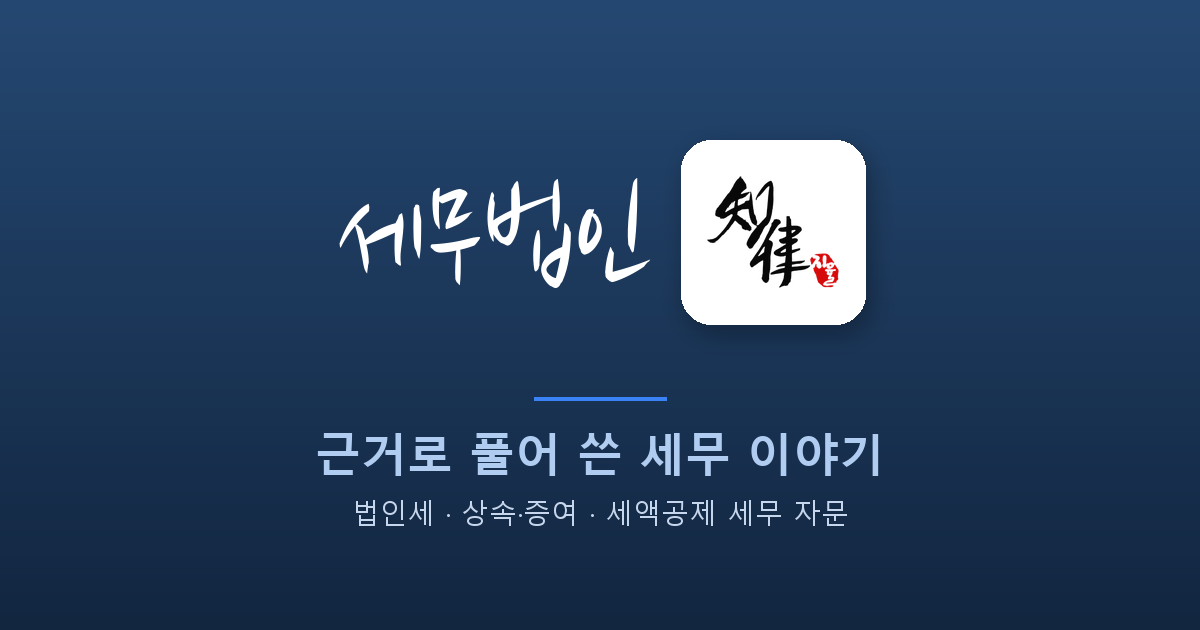
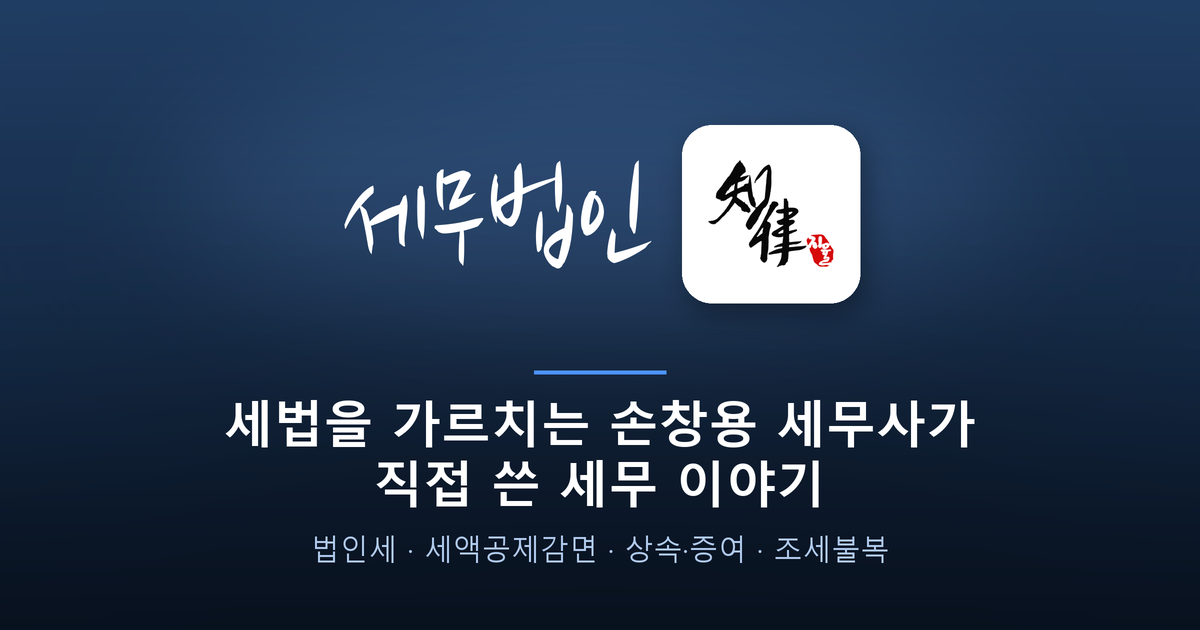
카톡/SNS 공유 OG 이미지 개선: 2배 슈퍼샘플링으로 선명도↑, 상단 글로우·하단 비네트로 전문적 깊이감, 태그라인을 홈페이지 H1(세법을 가르치는 손창용 세무사가 직접 쓴 세무 이야기)로 교체, 업무영역(법인세·세액공제감면·상속증여·조세불복). og.png v3→v4 전 페이지+JSON-LD, blog.js v17

diff --git a/index.html b/index.html
@@ -15,14 +15,14 @@
 <meta property="og:title" content="세무법인 지율 · 세무 칼럼 — 세법을 가르치는 손창용 세무사가 직접 쓴 세무 이야기" />
 <meta property="og:description" content="세무학 박사 손창용 세무사가 법인세·상속증여·조세특례 등 실제 상담 주제를 법령과 판례에 근거해 풀어 쓴 세무 칼럼." />
 <meta property="og:url" content="https://taxin4u.com/" />
-<meta property="og:image" content="https://taxin4u.com/assets/images/og.png?v=3" />
+<meta property="og:image" content="https://taxin4u.com/assets/images/og.png?v=4" />
 <meta property="og:image:width" content="1200" />
 <meta property="og:image:height" content="630" />
 <meta property="og:locale" content="ko_KR" />
 <meta name="twitter:card" content="summary_large_image" />
 <meta name="twitter:title" content="세무법인 지율 · 세무 칼럼" />
 <meta name="twitter:description" content="법인세·상속증여·조세특례 등을 법령과 판례에 근거해 풀어 쓴 세무 칼럼." />
-<meta name="twitter:image" content="https://taxin4u.com/assets/images/og.png?v=3" />
+<meta name="twitter:image" content="https://taxin4u.com/assets/images/og.png?v=4" />
 <link rel="icon" type="image/png" href="assets/images/favicon.png?v=2" />
 <link rel="apple-touch-icon" href="assets/images/apple-touch-icon.png?v=2" />
 <meta name="theme-color" content="#1E3A5F" />
@@ -53,7 +53,7 @@
   "faxNumber": "02-552-6438",
   "email": "asd8980@hanmail.net",
   "taxID": "120-85-46063",
-  "image": "https://taxin4u.com/assets/images/og.png?v=3",
+  "image": "https://taxin4u.com/assets/images/og.png?v=4",
   "logo": "https://taxin4u.com/assets/images/logo-brand.png?v=2",
   "priceRange": "₩₩",
   "address": {
@@ -194,7 +194,7 @@
 
 <div data-site-footer hidden></div>
 
-<script src="assets/blog.js?v=16"></script>
+<script src="assets/blog.js?v=17"></script>
 <script src="assets/site-footer.js?v=9"></script>
 </body>
 </html>

diff --git a/intro.html b/intro.html
@@ -18,8 +18,8 @@
 <!-- 공유 미리보기 이미지: 카카오톡·SNS 스크래퍼는 반드시 '절대 URL'로만 읽습니다.
      [사이트 주소 입력] 을 실제 도메인(https://... )으로 바꾸면 아래 두 줄이 함께 완성됩니다.
      예) https://jiyul.co.kr/assets/images/og.png -->
-<meta property="og:image" content="https://taxin4u.com/assets/images/og.png?v=3" />
-<meta property="og:image:secure_url" content="https://taxin4u.com/assets/images/og.png?v=3" />
+<meta property="og:image" content="https://taxin4u.com/assets/images/og.png?v=4" />
+<meta property="og:image:secure_url" content="https://taxin4u.com/assets/images/og.png?v=4" />
 <meta property="og:image:type" content="image/png" />
 <meta property="og:image:width" content="1200" />
 <meta property="og:image:height" content="630" />
@@ -28,7 +28,7 @@
 <meta name="twitter:card" content="summary_large_image" />
 <meta name="twitter:title" content="세무법인 지율 | 법인세·상속증여·세액공제 세무 자문 - 손창용 세무사" />
 <meta name="twitter:description" content="세무학 박사 손창용 세무사가 법인 세무, 상속·증여, 조세특례 세액공제, 세무조사 대응을 법령과 판례에 근거해 검토합니다." />
-<meta name="twitter:image" content="https://taxin4u.com/assets/images/og.png?v=3" />
+<meta name="twitter:image" content="https://taxin4u.com/assets/images/og.png?v=4" />
 
 <link rel="icon" type="image/png" href="assets/images/favicon.png?v=2" />
 <link rel="apple-touch-icon" href="assets/images/apple-touch-icon.png?v=2" />
@@ -50,7 +50,7 @@
   "telephone": "02-552-6436",
   "email": "asd8980@hanmail.net",
   "taxID": "120-85-46063",
-  "image": "https://taxin4u.com/assets/images/og.png?v=3",
+  "image": "https://taxin4u.com/assets/images/og.png?v=4",
   "address": {
     "@type": "PostalAddress",
     "streetAddress": "서울시 강남구 선릉로86길 37 덕우빌딩 3층 303호",

diff --git a/faq.html b/faq.html
@@ -11,14 +11,14 @@
 <meta property="og:title" content="자주 묻는 질문 | 세무법인 지율" />
 <meta property="og:description" content="상담 비용, 기장 대리 비용, 세무사무소 이전, 경정청구, 상속세 상담 시기 등 자주 문의하시는 내용을 정리했습니다." />
 <meta property="og:url" content="https://taxin4u.com/faq.html" />
-<meta property="og:image" content="https://taxin4u.com/assets/images/og.png?v=3" />
+<meta property="og:image" content="https://taxin4u.com/assets/images/og.png?v=4" />
 <meta property="og:image:width" content="1200" />
 <meta property="og:image:height" content="630" />
 <meta property="og:locale" content="ko_KR" />
 <meta name="twitter:card" content="summary_large_image" />
 <meta name="twitter:title" content="자주 묻는 질문 | 세무법인 지율" />
 <meta name="twitter:description" content="상담·기장·이전·경정청구·상속세 상담 시기 등 자주 묻는 질문 정리." />
-<meta name="twitter:image" content="https://taxin4u.com/assets/images/og.png?v=3" />
+<meta name="twitter:image" content="https://taxin4u.com/assets/images/og.png?v=4" />
 <script type="application/ld+json">
 {
   "@context": "https://schema.org",

diff --git a/resources.html b/resources.html
@@ -11,14 +11,14 @@
 <meta property="og:title" content="자료실 | 세무법인 지율" />
 <meta property="og:description" content="세무 관련 서식·안내 자료를 내려받으실 수 있습니다." />
 <meta property="og:url" content="https://taxin4u.com/resources.html" />
-<meta property="og:image" content="https://taxin4u.com/assets/images/og.png?v=3" />
+<meta property="og:image" content="https://taxin4u.com/assets/images/og.png?v=4" />
 <meta property="og:image:width" content="1200" />
 <meta property="og:image:height" content="630" />
 <meta property="og:locale" content="ko_KR" />
 <meta name="twitter:card" content="summary_large_image" />
 <meta name="twitter:title" content="자료실 | 세무법인 지율" />
 <meta name="twitter:description" content="세무 관련 서식·안내 자료 다운로드." />
-<meta name="twitter:image" content="https://taxin4u.com/assets/images/og.png?v=3" />
+<meta name="twitter:image" content="https://taxin4u.com/assets/images/og.png?v=4" />
 <link rel="icon" type="image/png" href="assets/images/favicon.png?v=2" />
 <link rel="apple-touch-icon" href="assets/images/apple-touch-icon.png?v=2" />
 <meta name="theme-color" content="#1E3A5F" />

diff --git a/post.html b/post.html
@@ -12,7 +12,7 @@
 <meta property="og:title" content="세무 칼럼 | 세무법인 지율" id="ogTitle" />
 <meta property="og:description" content="세무법인 지율 손창용 세무사의 세무 칼럼." id="ogDesc" />
 <meta property="og:url" content="https://taxin4u.com/post.html" id="ogUrl" />
-<meta property="og:image" content="https://taxin4u.com/assets/images/og.png?v=3" />
+<meta property="og:image" content="https://taxin4u.com/assets/images/og.png?v=4" />
 <meta property="og:image:width" content="1200" />
 <meta property="og:image:height" content="630" />
 <meta property="og:locale" content="ko_KR" />
@@ -83,7 +83,7 @@
 
 <div data-site-footer hidden></div>
 
-<script src="/assets/blog.js?v=16"></script>
+<script src="/assets/blog.js?v=17"></script>
 <script src="/assets/site-footer.js?v=9"></script>
 </body>
 </html>

diff --git a/contact.html b/contact.html
@@ -12,7 +12,7 @@
 <meta property="og:title" content="상담 문의 | 세무법인 지율 - 손창용 세무사" />
 <meta property="og:description" content="세무법인 지율 상담 신청. 성함·연락처·문의 내용을 남겨주시면 영업일 기준 1일 이내에 담당자가 연락드립니다." />
 <meta property="og:url" content="https://taxin4u.com/contact.html" />
-<meta property="og:image" content="https://taxin4u.com/assets/images/og.png?v=3" />
+<meta property="og:image" content="https://taxin4u.com/assets/images/og.png?v=4" />
 <meta property="og:image:width" content="1200" />
 <meta property="og:image:height" content="630" />
 <meta property="og:locale" content="ko_KR" />

diff --git a/assets/blog.js b/assets/blog.js
@@ -272,7 +272,7 @@
             datePublished: p.date || undefined,
             mainEntityOfPage: canonicalUrl,
             url: canonicalUrl,
-            image: 'https://taxin4u.com/assets/images/og.png?v=3'
+            image: 'https://taxin4u.com/assets/images/og.png?v=4'
           };
           var s = document.createElement('script');
           s.type = 'application/ld+json';

diff --git a/make_og.py b/make_og.py
@@ -6,10 +6,11 @@
     python make_og.py 다른경로.png     # 지정 경로로 저장(미리보기용)
 
 구성(사이트 헤더 로고와 동일한 락업):
-    네이비 그라데이션 배경
+    네이비 그라데이션 배경 + 상단 은은한 글로우/하단 비네트(깊이감)
     + 붓글씨 '세무법인' + 흰 카드 안의 브랜드 로고(知律)
-    + 태그라인 '근거로 풀어 쓴 세무 이야기' + 업무 요약
+    + 홈페이지 H1과 동일한 태그라인 + 업무 요약
 
+선명도: 2배(2400x1260)로 렌더링 후 LANCZOS 축소 → 글자·로고가 또렷.
 문구/색을 바꾸려면 아래 상수만 수정하세요. 필요 라이브러리: Pillow (pip install Pillow).
 '세무법인' 붓글씨는 assets/fonts/NanumBrushScript-Regular.ttf, 나머지 텍스트는 맑은 고딕.
 """
@@ -28,21 +29,27 @@ LOGO = os.path.join(BASE, "assets", "images", "logo-brand.png")
 BRUSH_FONT = os.path.join(BASE, "assets", "fonts", "NanumBrushScript-Regular.ttf")
 OUT = sys.argv[1] if len(sys.argv) > 1 else os.path.join(BASE, "assets", "images", "og.png")
 
+# 최종 크기(1200x630). 실제 렌더링은 S배로 하고 마지막에 축소해 선명하게.
 W, H = 1200, 630
-NAVY_TOP = (37, 72, 114)
-NAVY_BOT = (18, 38, 64)
+S = 2
+
+# 브랜드 색
+NAVY_TOP = (32, 62, 100)     # 상단(브랜드 네이비 계열)
+NAVY_BOT = (12, 26, 46)      # 하단(더 깊게)
 WHITE = (255, 255, 255)
-TAG_COL = (176, 204, 240)
-SUB_COL = (198, 214, 236)
-ACCENT = (59, 130, 246)
+TAG_MAIN = (255, 255, 255)   # 메인 태그라인: 순백(최대 대비/선명)
+SUB_COL = (176, 202, 236)    # 업무 요약: 라이트 블루
+ACCENT = (77, 148, 255)      # 포인트(파랑)
 
 FDIR = "C:/Windows/Fonts"
 FONT_BOLD = os.path.join(FDIR, "malgunbd.ttf")
 FONT_REG = os.path.join(FDIR, "malgun.ttf")
 
-BRAND = "세무법인"          # 붓글씨로 렌더링 (오른쪽 흰 박스의 知律 로고와 한 세트)
-TAGLINE = "근거로 풀어 쓴 세무 이야기"
-SUB = "법인세 · 상속·증여 · 세액공제 세무 자문"
+BRAND = "세무법인"                       # 붓글씨(오른쪽 흰 박스의 知律 로고와 한 세트)
+# 홈페이지 H1: "세법을 가르치는 손창용 세무사가 직접 쓴 세무 이야기" → 2줄로 배치
+TAGLINE_1 = "세법을 가르치는 손창용 세무사가"
+TAGLINE_2 = "직접 쓴 세무 이야기"
+SUB = "법인세 · 세액공제감면 · 상속·증여 · 조세불복"
 
 
 def vgradient(w, h, top, bot):
@@ -58,52 +65,79 @@ def vgradient(w, h, top, bot):
     return im
 
 
+def soft_ellipse(w, h, cx, cy, rx, ry, color, alpha, blur):
+    """부드러운 빛번짐(글로우/비네트)용 타원 레이어."""
+    layer = Image.new("RGBA", (w, h), (0, 0, 0, 0))
+    ImageDraw.Draw(layer).ellipse(
+        [cx - rx, cy - ry, cx + rx, cy + ry], fill=color + (alpha,)
+    )
+    return layer.filter(ImageFilter.GaussianBlur(blur))
+
+
 def main():
-    img = vgradient(W, H, NAVY_TOP, NAVY_BOT).convert("RGBA")
+    w, h = W * S, H * S
+    img = vgradient(w, h, NAVY_TOP, NAVY_BOT).convert("RGBA")
+
+    # 상단 중앙 은은한 글로우 → 로고에 시선 집중, 입체감
+    img.alpha_composite(soft_ellipse(w, h, w // 2, int(0.30 * h),
+                                     int(0.42 * w), int(0.30 * h),
+                                     (120, 170, 240), 46, 90 * S))
+    # 하단 비네트 → 전문적인 차분함
+    img.alpha_composite(soft_ellipse(w, h, w // 2, int(1.06 * h),
+                                     int(0.75 * w), int(0.42 * h),
+                                     (0, 0, 0), 90, 110 * S))
+
     d = ImageDraw.Draw(img)
 
     # ── 로고 락업: 붓글씨 '세무법인' + 흰 박스(知律) ──────────
-    f_brush = ImageFont.truetype(BRUSH_FONT, 132)
+    f_brush = ImageFont.truetype(BRUSH_FONT, 130 * S)
     bb = d.textbbox((0, 0), BRAND, font=f_brush)
     btw, bth = bb[2] - bb[0], bb[3] - bb[1]
 
-    box = 184
-    gap = 30
+    box = 178 * S
+    gap = 30 * S
     group_w = btw + gap + box
-    gx = (W - group_w) // 2
-    cy = 232
+    gx = (w - group_w) // 2
+    cy = 214 * S
 
     d.text((gx - bb[0], cy - bth // 2 - bb[1]), BRAND, font=f_brush, fill=WHITE)
 
     box_x = gx + btw + gap
     box_y = cy - box // 2
-    sh = Image.new("RGBA", (W, H), (0, 0, 0, 0))
+    sh = Image.new("RGBA", (w, h), (0, 0, 0, 0))
     ImageDraw.Draw(sh).rounded_rectangle(
-        [box_x + 5, box_y + 9, box_x + box + 5, box_y + box + 9], radius=30, fill=(0, 0, 0, 80),
+        [box_x + 5 * S, box_y + 10 * S, box_x + box + 5 * S, box_y + box + 10 * S],
+        radius=30 * S, fill=(0, 0, 0, 95),
     )
-    img.alpha_composite(sh.filter(ImageFilter.GaussianBlur(12)))
-    d.rounded_rectangle([box_x, box_y, box_x + box, box_y + box], radius=30, fill=WHITE)
+    img.alpha_composite(sh.filter(ImageFilter.GaussianBlur(14 * S)))
+    d.rounded_rectangle([box_x, box_y, box_x + box, box_y + box], radius=30 * S, fill=WHITE)
 
     logo = Image.open(LOGO).convert("RGBA")
     lb = logo.getbbox()
     if lb:
         logo = logo.crop(lb)
-    pad = 26
+    pad = 26 * S
     sc = min((box - pad * 2) / logo.width, (box - pad * 2) / logo.height)
     lw, lh = int(logo.width * sc), int(logo.height * sc)
     logo = logo.resize((lw, lh), Image.LANCZOS)
     img.alpha_composite(logo, (box_x + (box - lw) // 2, box_y + (box - lh) // 2))
 
-    # ── 태그라인 ────────────────────────────────────────────
-    f_tag = ImageFont.truetype(FONT_BOLD, 46)
-    f_sub = ImageFont.truetype(FONT_REG, 28)
-    cx = W // 2
-    d.line([(cx - 66, 398), (cx + 66, 398)], fill=ACCENT, width=4)
-    d.text((cx, 452), TAGLINE, font=f_tag, fill=TAG_COL, anchor="mm")
-    d.text((cx, 512), SUB, font=f_sub, fill=SUB_COL, anchor="mm")
+    # ── 구분선 ──────────────────────────────────────────────
+    cx = w // 2
+    div_y = 372 * S
+    d.line([(cx - 66 * S, div_y), (cx + 66 * S, div_y)], fill=ACCENT, width=4 * S)
 
-    img.convert("RGB").save(OUT, "PNG")
-    print("wrote", OUT, img.size)
+    # ── 태그라인(홈페이지 H1) 2줄 + 업무 요약 ────────────────
+    f_tag = ImageFont.truetype(FONT_BOLD, 50 * S)
+    f_sub = ImageFont.truetype(FONT_REG, 29 * S)
+    d.text((cx, 422 * S), TAGLINE_1, font=f_tag, fill=TAG_MAIN, anchor="mm")
+    d.text((cx, 482 * S), TAGLINE_2, font=f_tag, fill=TAG_MAIN, anchor="mm")
+    d.text((cx, 548 * S), SUB, font=f_sub, fill=SUB_COL, anchor="mm")
+
+    # ── 축소로 선명하게 ─────────────────────────────────────
+    out = img.convert("RGB").resize((W, H), Image.LANCZOS)
+    out.save(OUT, "PNG")
+    print("wrote", OUT, out.size)
 
 
 if __name__ == "__main__":

diff --git a/server.py b/server.py
@@ -1003,7 +1003,7 @@ def _render_post_html(slug):
         "publisher": {"@type": "Organization", "name": "세무법인 지율"},
         "mainEntityOfPage": canonical,
         "url": canonical,
-        "image": SITE_ORIGIN + "/assets/images/og.png?v=3",
+        "image": SITE_ORIGIN + "/assets/images/og.png?v=4",
     }
     if post.get("date"):
         ld["datePublished"] = post["date"]
